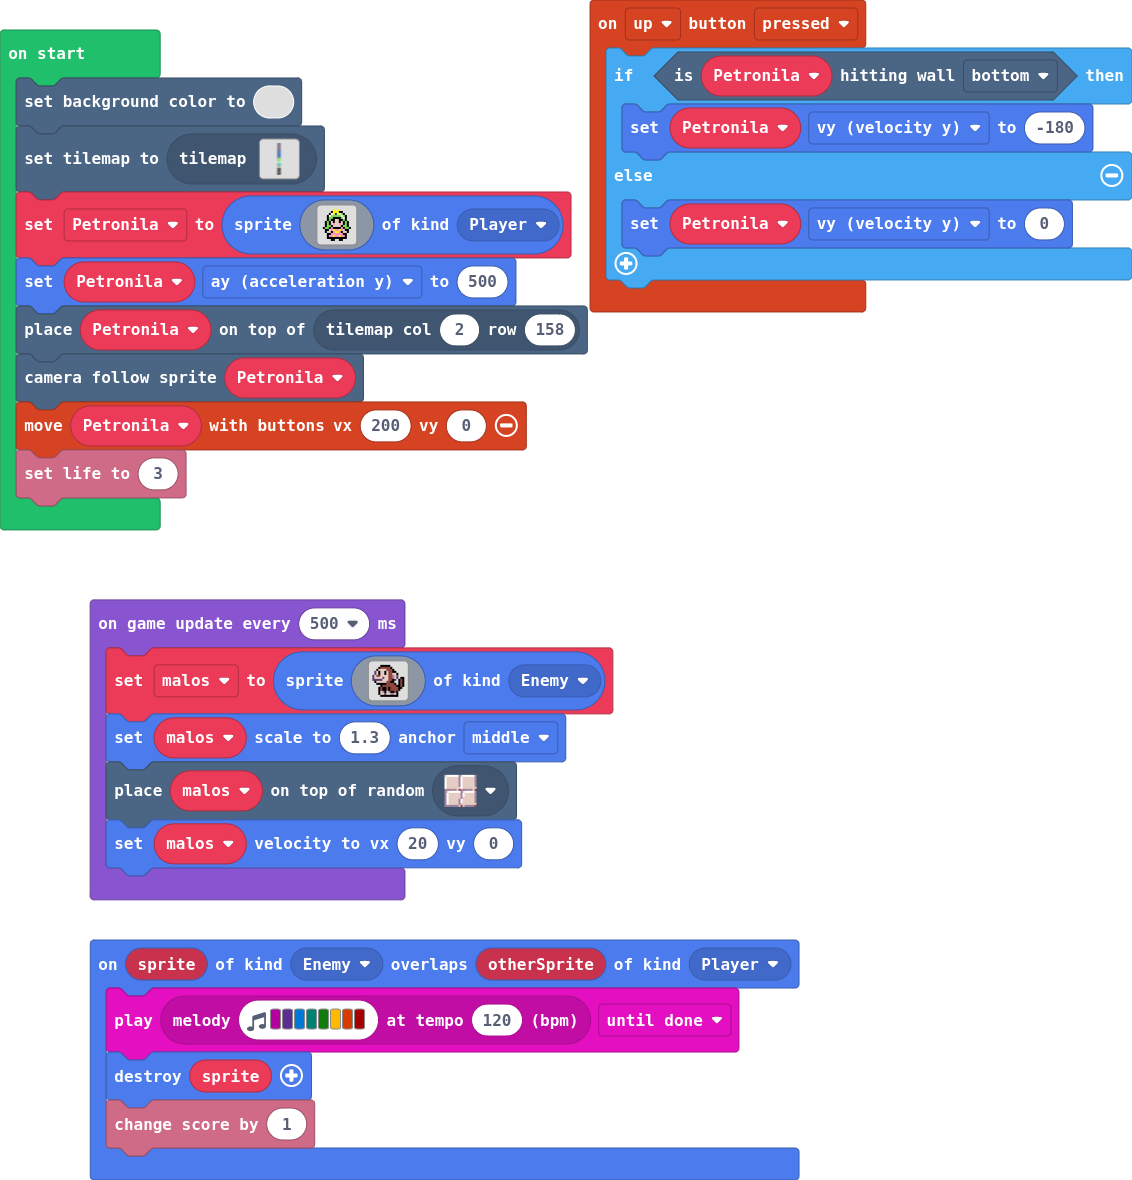
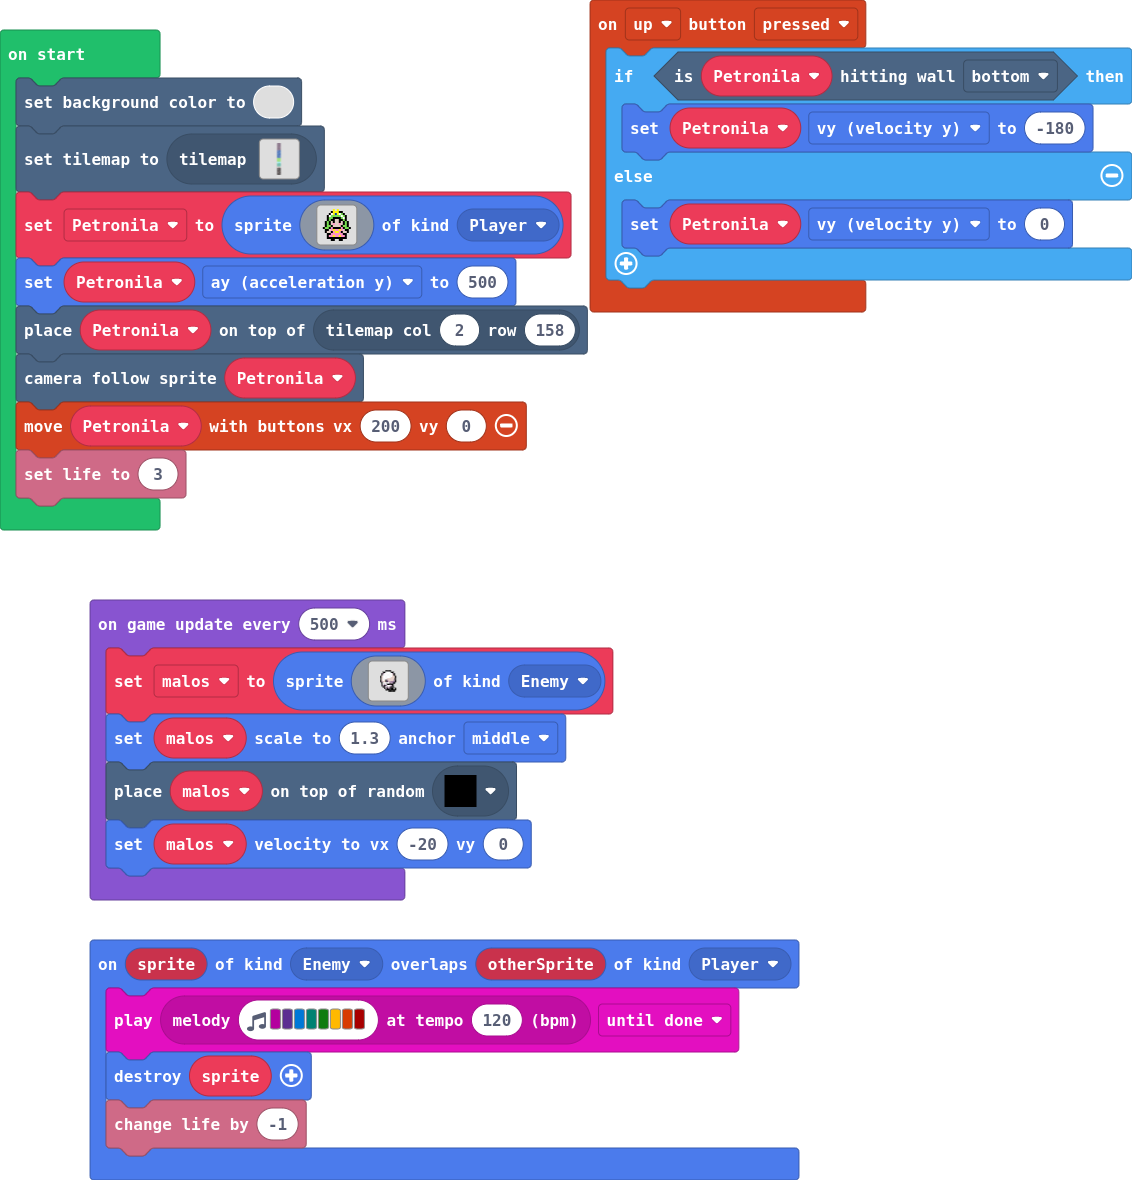
fantasma enemy

diff --git a/main.ts b/main.ts
@@ -8,7 +8,7 @@ controller.up.onEvent(ControllerButtonEvent.Pressed, function () {
 sprites.onOverlap(SpriteKind.Enemy, SpriteKind.Player, function (sprite, otherSprite) {
     music.play(music.stringPlayable("C D E F G A B C5 ", 120), music.PlaybackMode.UntilDone)
     sprites.destroy(sprite)
-    info.changeScoreBy(1)
+    info.changeLifeBy(-1)
 })
 let malos: Sprite = null
 let Petronila: Sprite = null
@@ -39,24 +39,32 @@ controller.moveSprite(Petronila, 200, 0)
 info.setLife(3)
 game.onUpdateInterval(500, function () {
     malos = sprites.create(img`
-        . . . . f f f f f . . . . . . . 
-        . . . f e e e e e f . . . . . . 
-        . . f d d d d e e e f . . . . . 
-        . c d f d d f d e e f f . . . . 
-        . c d f d d f d e e d d f . . . 
-        c d e e d d d d e e b d c . . . 
-        c d d d d c d d e e b d c . f f 
-        c c c c c d d d e e f c . f e f 
-        . f d d d d d e e f f . . f e f 
-        . . f f f f f e e e e f . f e f 
-        . . . . f e e e e e e e f f e f 
-        . . . f e f f e f e e e e f f . 
-        . . . f e f f e f e e e e f . . 
-        . . . f d b f d b f f e f . . . 
-        . . . f d d c d d b b d f . . . 
-        . . . . f f f f f f f f f . . . 
+        ........................
+        ........................
+        ........................
+        ........................
+        ..........ffff..........
+        ........ff1111ff........
+        .......fb111111bf.......
+        .......f1111111df.......
+        ......fd1111111ddf......
+        ......fd111111dddf......
+        ......fd111ddddddf......
+        ......fd1dfbddddbf......
+        ......fbddfcdbbbcf......
+        .......f11111bbcf.......
+        .......f1b1fffff........
+        .......fbfc111bf........
+        ........ff1b1bff........
+        .........fbfbfff.f......
+        ..........ffffffff......
+        ............fffff.......
+        ........................
+        ........................
+        ........................
+        ........................
         `, SpriteKind.Enemy)
     malos.setScale(1.3, ScaleAnchor.Middle)
-    tiles.placeOnRandomTile(malos, sprites.dungeon.floorLight4)
-    malos.setVelocity(20, 0)
+    tiles.placeOnRandomTile(malos, assets.tile`myTile2`)
+    malos.setVelocity(-20, 0)
 })
